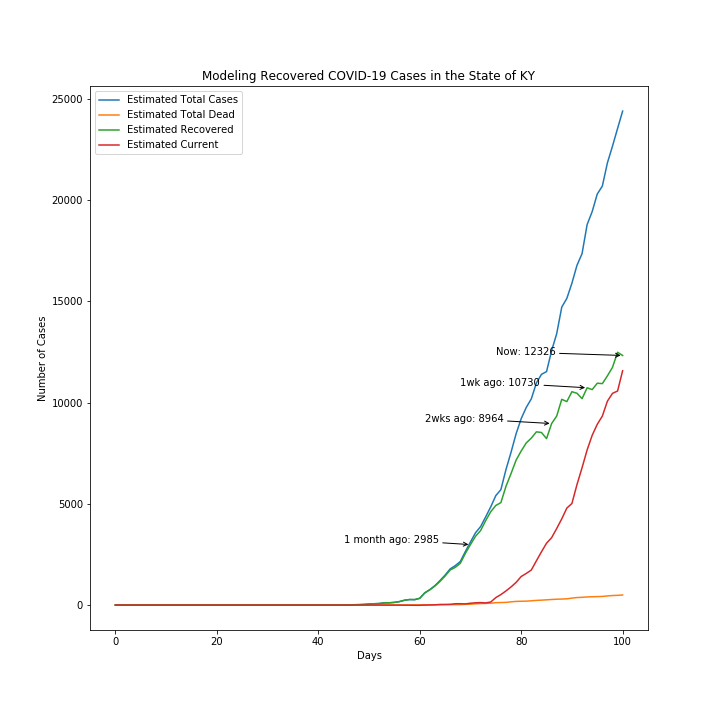
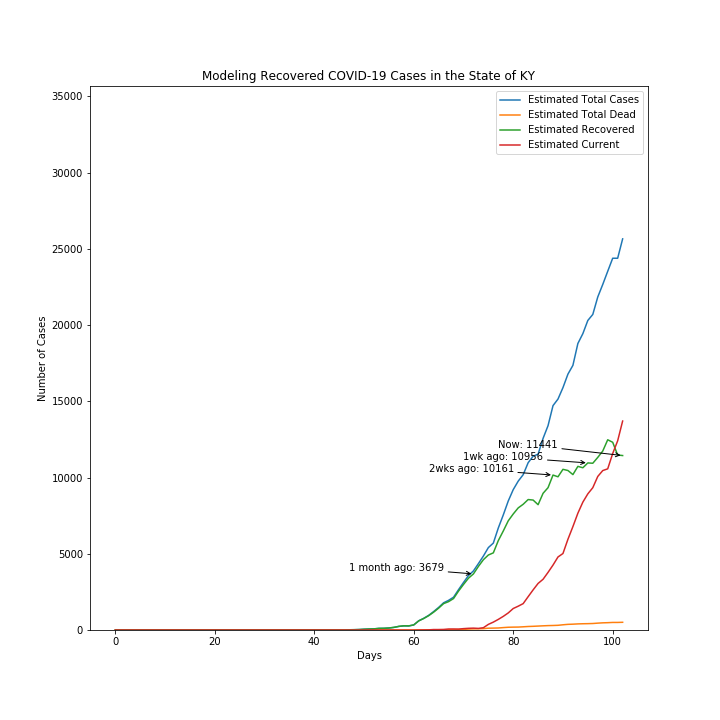
Updated COVID graphics and disclaimer on current case estimation

diff --git a/pages/covid.html b/pages/covid.html
@@ -30,7 +30,7 @@
                 <li>Recovered cases are the total infected minus the total infected cases two weeks ago minus the total infected cases today multiplied by the mortality rate. </li>
                 <li>Mortality rate is used based on the deaths divided by total cases. When used in calculating other values, the most recent estimate is used, as most data is based on cumulative numbers.</li>
             </ol>
-            <p class="project">To the right are visualizations I was able to create with recent data as of April 30, 2020. They will be periodically updated as new data comes in.</p>
+            <p class="project">To the right are visualizations I was able to create with recent data as of May 4, 2020. They will be periodically updated as new data comes in. Issues have arisen in estimating current cases in large part because deaths have been lower than first estimated.</p>
             <p class="sources">Sources for data: <br>
 <a href="https://usafacts.org/visualizations/coronavirus-covid-19-spread-map/" target="_blank">Infection & Death Counts</a><br>
 <a href="https://www.who.int/news-room/q-a-detail/q-a-similarities-and-differences-covid-19-and-influenza" target="_blank">WHO</a>
